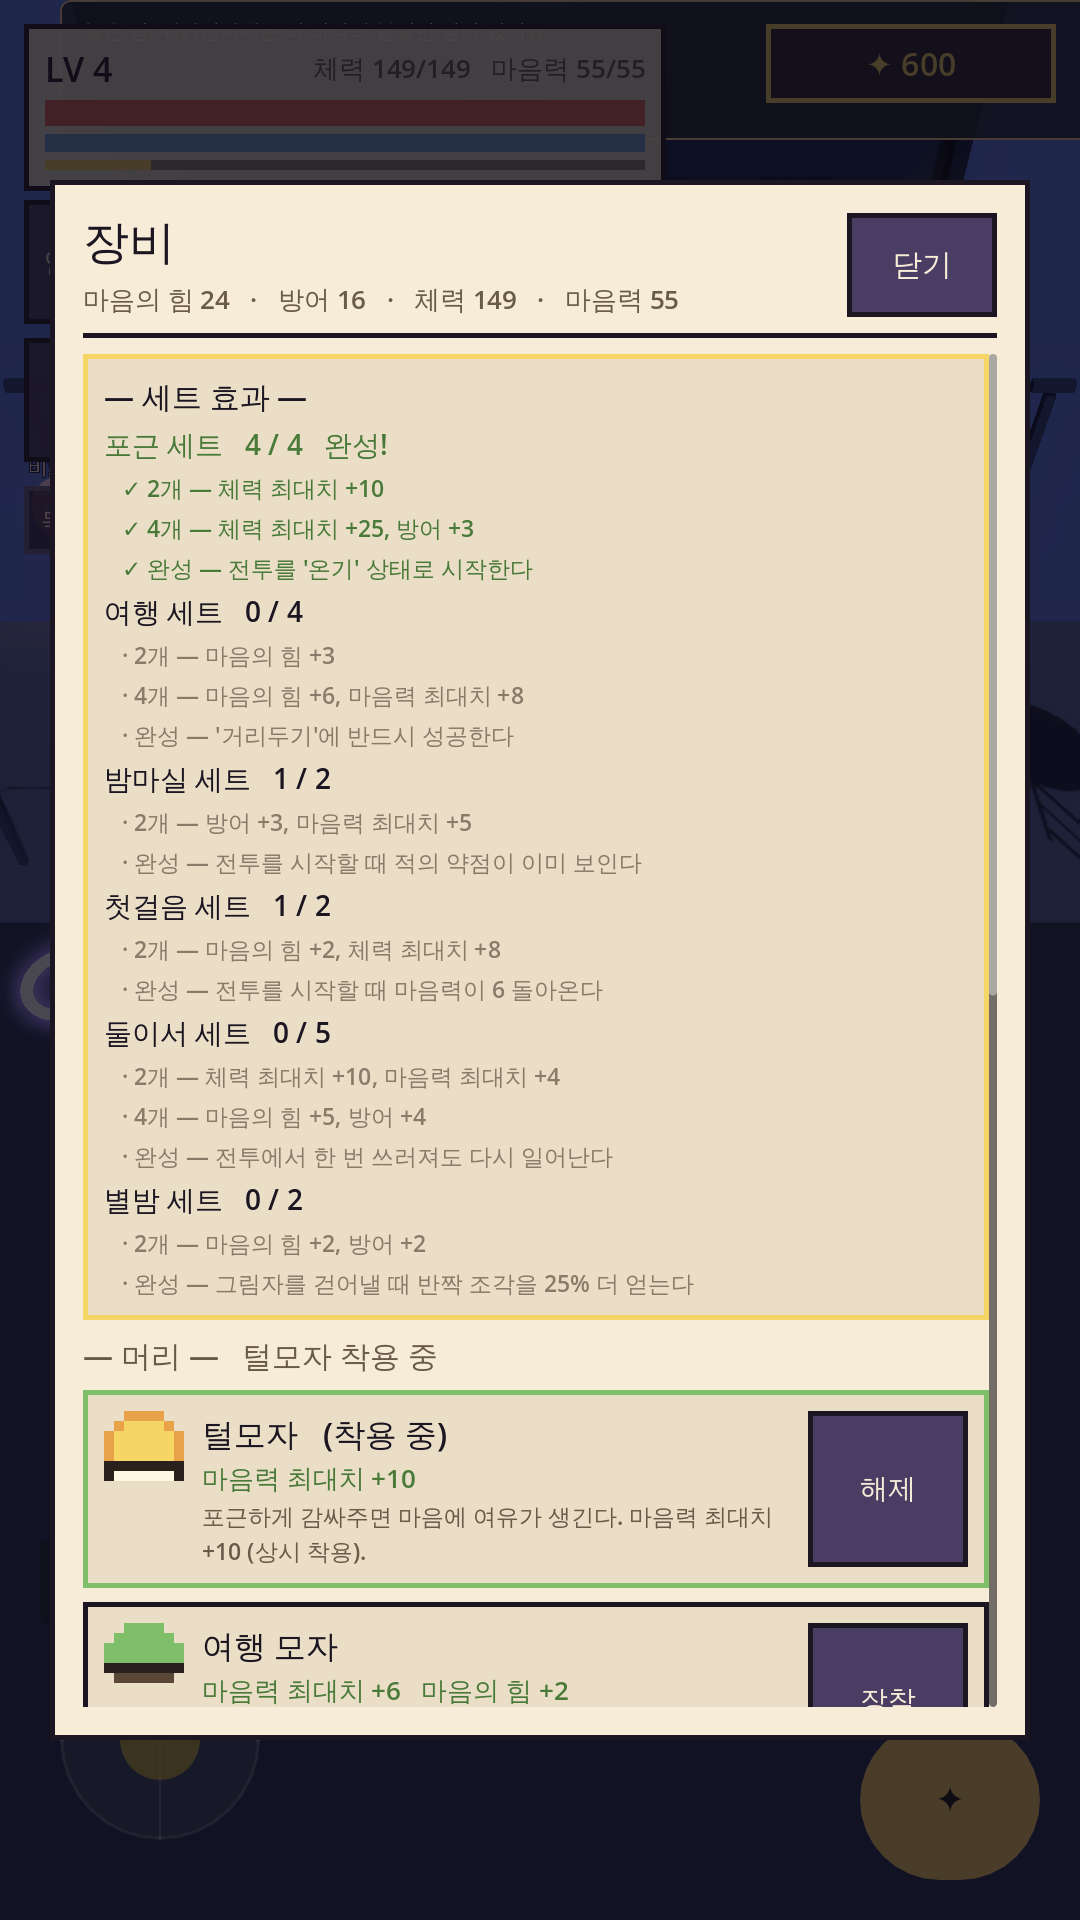
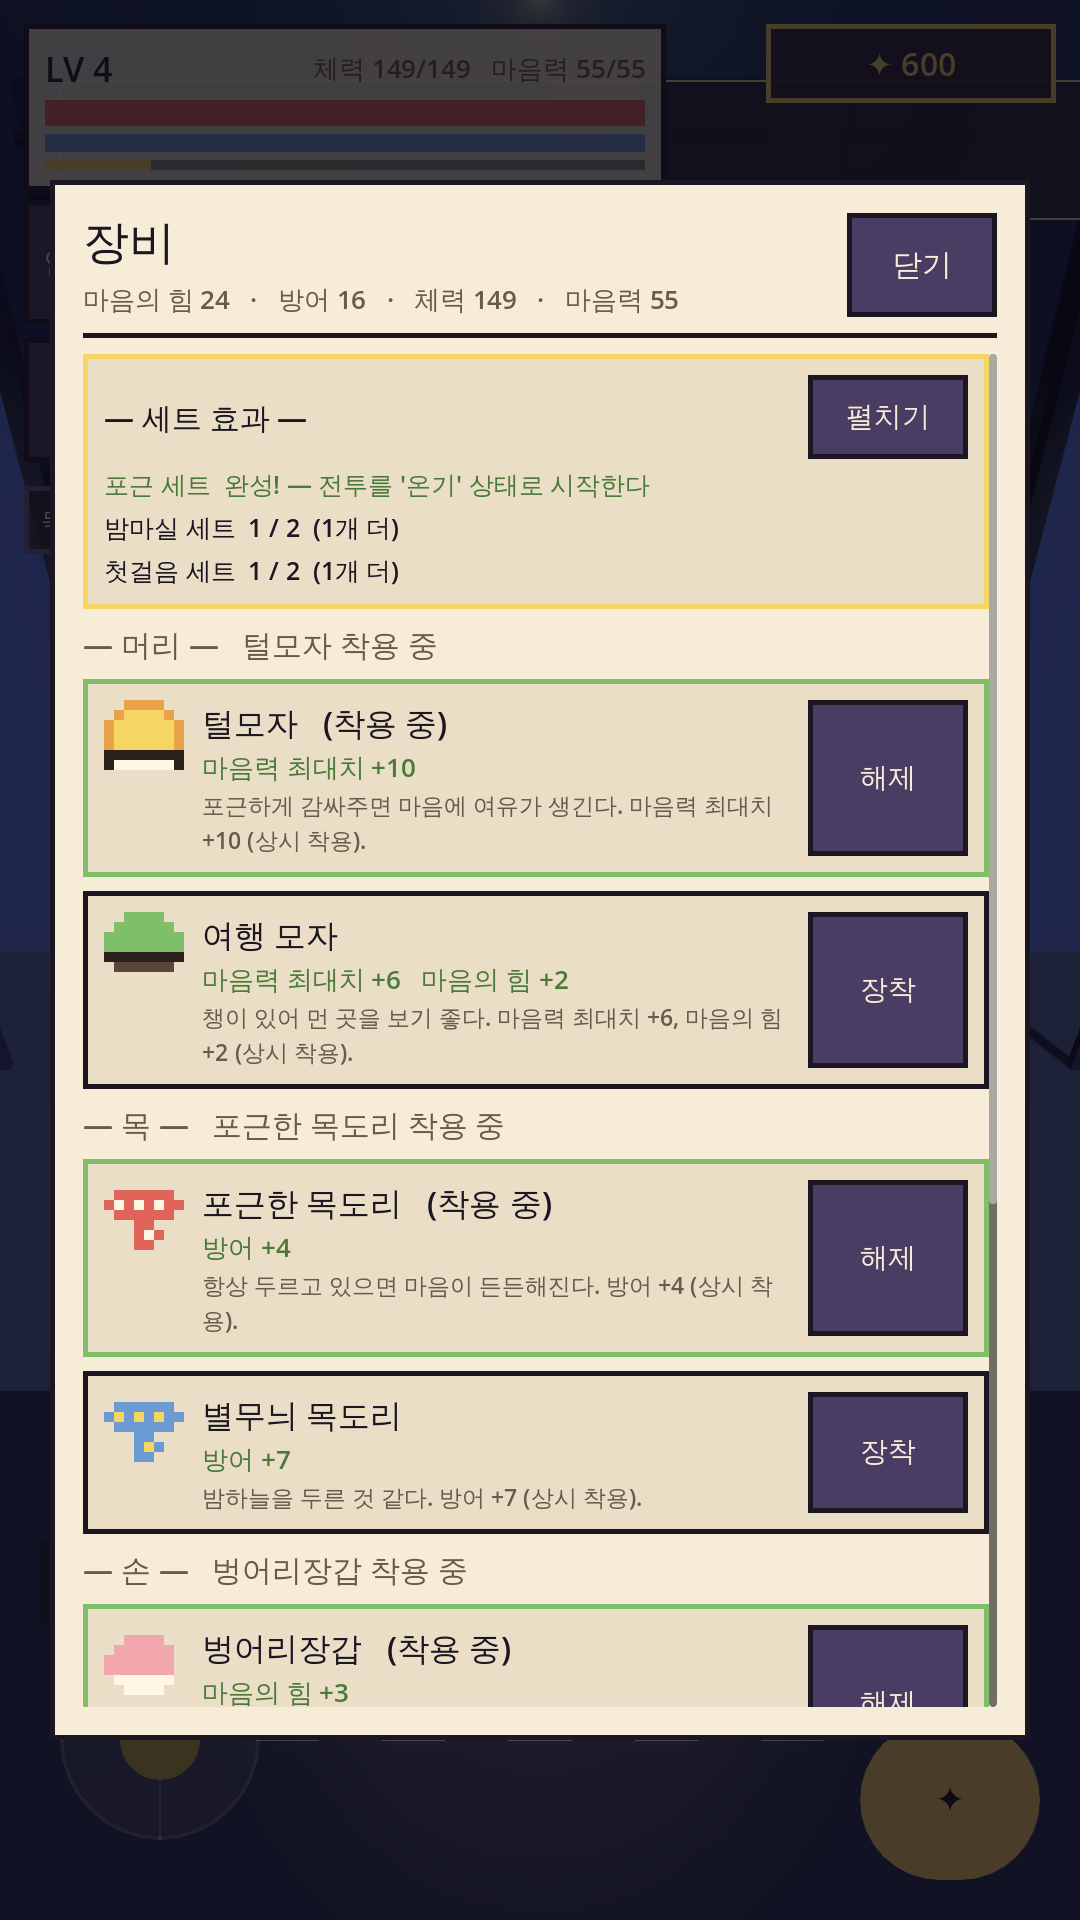
fix: 장비 창 세트 설명을 접어둔다 (기본 접힘 + 펼치기 버튼)
세트가 6종이 되면서 설명이 22줄로 늘어 화면 2/3을 먹었다. 정작 장비를 보려면
한참 스크롤해야 해서, 실제로 돌려본 스크린샷에서 제일 답답한 부분이었다.

- 기본은 접힌 상태 — 지금 걸쳐 있는 세트만 한 줄씩 보여준다
  ("포근 세트 완성! — 전투를 '온기' 상태로 시작한다" / "밤마실 세트 1 / 2 (1개 더)")
- 하나도 안 걸쳤으면 안내 한 줄만 나온다
- "펼치기"를 누르면 기존처럼 6종 전부 단계별로 보여준다
- 접힌 상태에서 세트 카드가 22줄 → 4줄로 줄어, 머리·목 슬롯이 한 화면에 들어온다

Claude-Session: https://claude.ai/code/session_01UQsgMEbgdW8Gttf4aniRwH

diff --git a/CLAUDE.md b/CLAUDE.md
@@ -245,6 +245,9 @@ scripts/
   (`player_stats.gd`의 `from_dict()` 참고 — 다시 적용하면 중복 적용된다).
 - **장비 창(EquipUI)**에서 슬롯별로 착용/해제한다. 인벤토리에는 장비가 들어가지 않는다.
   상점(자판기)에서도 구매 가능.
+- 세트가 6종이라 설명을 전부 펼치면 화면 2/3을 먹는다. 그래서 **기본은 접힌 상태**로,
+  지금 걸쳐 있는 세트만 한 줄씩 보여준다(`_fill_sets_brief`). "펼치기"를 누르면
+  단계별 상세가 나온다(`_fill_sets_full`). 상태는 `_sets_open`에 들고 창을 닫으면 초기화된다.
 - **3D 착용 표시**: 착용한 장비는 `PlayerQuokka3D`에 실제 메시로 그려진다. 아이템의 `wear`
   필드(`color`/`accent`/`style`)를 읽어 슬롯별로 모양을 만든다:
   - 목 = TorusMesh 링 + 늘어뜨린 자락 (줄무늬 또는 별 장식)
